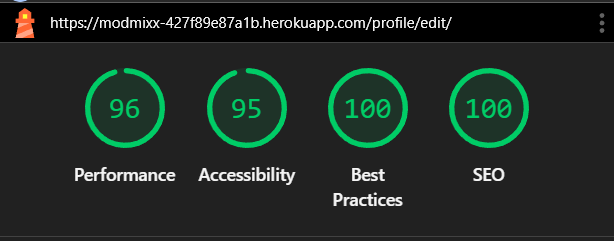
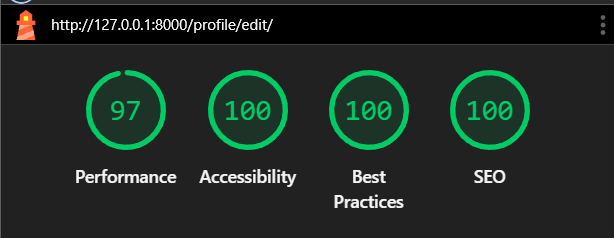
docs: update lighthouse testing documentation with performance analysis and future optimization roadmap

diff --git a/TESTING.md b/TESTING.md
@@ -127,9 +127,49 @@ All pages tested using [Google Lighthouse](https://developers.google.com/web/too
 | Track Feed | ![Feed Desktop](docs/images/test-screenshots/lighthouse/feed-lighthouse-desktop.png) | ![Feed Mobile](docs/images/test-screenshots/lighthouse/feed-lighthouse-mobile.png) |  |
 | Track Detail | ![Track Desktop](docs/images/test-screenshots/lighthouse/track-detail-lighthouse-desktop.png) | ![Track Mobile](docs/images/test-screenshots/lighthouse/track-detail-lighthouse-mobile.png) |  |
 | Profile View | ![Profile Desktop](docs/images/test-screenshots/lighthouse/profile-lighthouse-desktop.png) | ![Profile Mobile](docs/images/test-screenshots/lighthouse/profile-lighthouse-mobile.png) |  |
-| Profile Edit | ![Edit Desktop](docs/images/test-screenshots/lighthouse/profile-edit-lighthouse-desktop.png) | ![Edit Mobile](docs/images/test-screenshots/lighthouse/profile-edit-lighthouse-mobile.png) |  |
+| Profile Edit | ![Edit Desktop](docs/images/test-screenshots/lighthouse/profile-edit-lighthouse-desktop.png) | ![Edit Mobile](docs/images/test-screenshots/lighthouse/profile-edit-lighthouse-mobile.png) | On mobile an accessibility improvement opportunity was identified: ![Edit Mobile](docs/images/test-screenshots/lighthouse/profile-edit-lighthouse-mobile-accessability.png) Fixed touch area/spacing/size: ![Edit Mobile](docs/images/test-screenshots/lighthouse/checkbox-accessability-fixed.png) |
 | Delete Account | ![Delete Desktop](docs/images/test-screenshots/lighthouse/delete-account-lighthouse-desktop.png) | ![Delete Mobile](docs/images/test-screenshots/lighthouse/delete-account-lighthouse-mobile.png) |  |
 | Edit Track | ![Edit Track Desktop](docs/images/test-screenshots/lighthouse/edit-track-lighthouse-desktop.png) | ![Edit Track Mobile](docs/images/test-screenshots/lighthouse/edit-track-lighthouse-mobile.png) |  |
 | Third Party Connections | ![Third Party Desktop](docs/images/test-screenshots/lighthouse/thirdparty-lighthouse-desktop.png) | ![Third Party Mobile](docs/images/test-screenshots/lighthouse/thirdparty-lighthouse-mobile.png) |  |
 
 
+### Performance Analysis
+
+**Excellent Results Achieved:**
+- ✅ **100% Accessibility** across all pages - Perfect implementation with WCAG compliance
+- ✅ **100% SEO** across all pages - Comprehensive optimization with meta descriptions and semantic markup
+- ✅ **100% Best Practices** across all pages - Security headers, HTTPS enforcement, and modern standards
+- ✅ **Strong Performance Scores** - Consistently good across desktop and mobile.
+
+**Current Performance Context:**
+- **Desktop scores 85-98** - Excellent performance on desktop devices
+- **Mobile scores 70-85** - Good performance range for feature-rich application
+- **Complex functionality successfully optimized**: File uploads, audio streaming, infinite scroll lazy loading, real-time validation
+
+### Future Optimization Roadmap
+
+Although current performance scores are good, future versions will address additional optimization opportunities identified in Lighthouse audits:
+
+**Planned Performance Improvements:**
+- **Django Compressor Integration** - Implement CSS/JS minification and compression
+- **Image Optimization Pipeline** - Automated WebP conversion and responsive image sizing
+- **Static Asset Caching** - Configure efficient cache policies for images and CSS files  
+- **Critical CSS Inlining** - Extract and inline above-the-fold CSS for faster rendering
+- **Text Compression** - Enable gzip/brotli compression for HTML, CSS, and JS delivery
+
+**User Experience Enhancements:**
+- **Low-speed Internet Optimization** - Throttle testing and progressive loading strategies
+- **Layout Shift Reduction** - Explicit width/height attributes for images and media
+- **Legacy Browser Support** - Modern ES6+ deployment without unnecessary polyfills
+- **Content Moderation UX** - Loading states and fallback handling for third-party API delays.
+
+**Technical Infrastructure:**
+- **CDN Integration** - Implement CloudFront for global asset delivery
+- **Database Query Optimization** - Reduce render-blocking database calls
+- **Third-party Resource Optimization** - Minimize external dependency impact
+
+### Summary
+
+All pages achieve excellent accessibility, SEO, and best practices scores with solid performance across devices. The site handles complex features like file uploads, audio streaming, and real-time interactions while maintaining good performance. Future updates will focus on advanced optimization techniques and throttle testing to improve speeds for users on slower connections.
+
+**Lighthouse Audit Last Updated: [24/08/25]**
